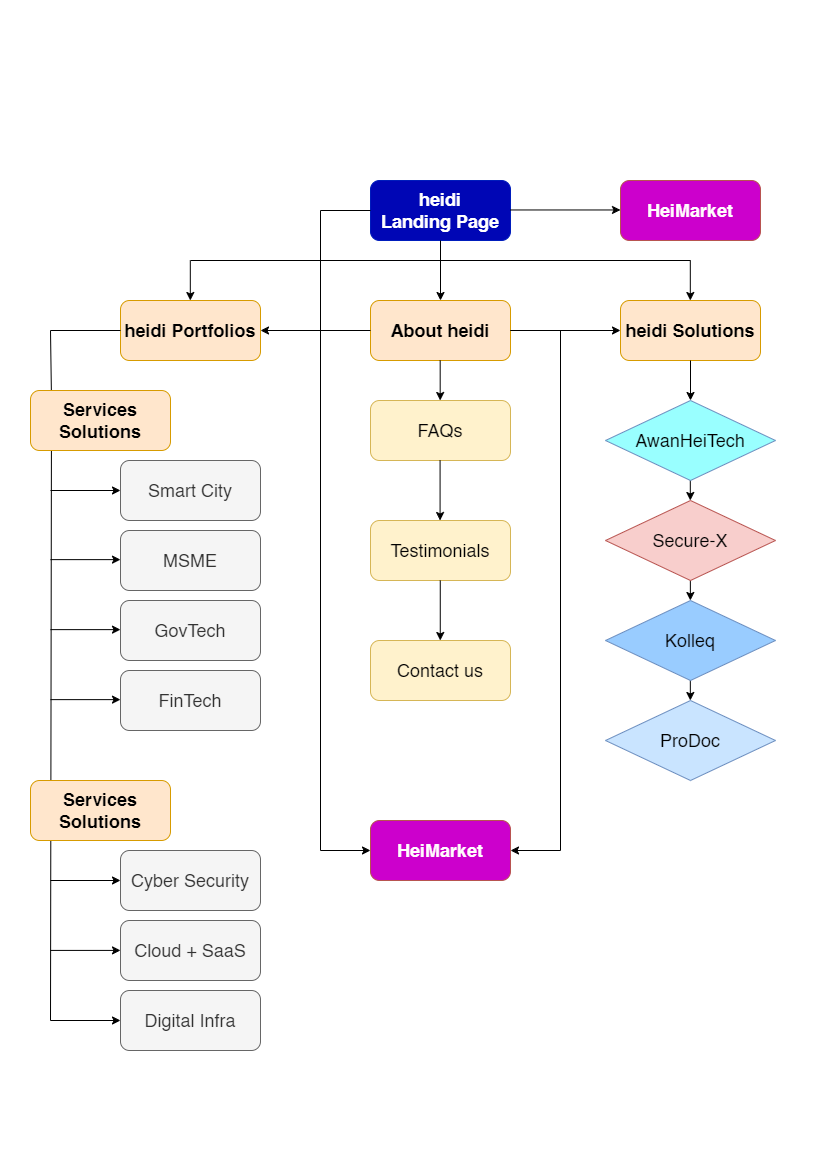
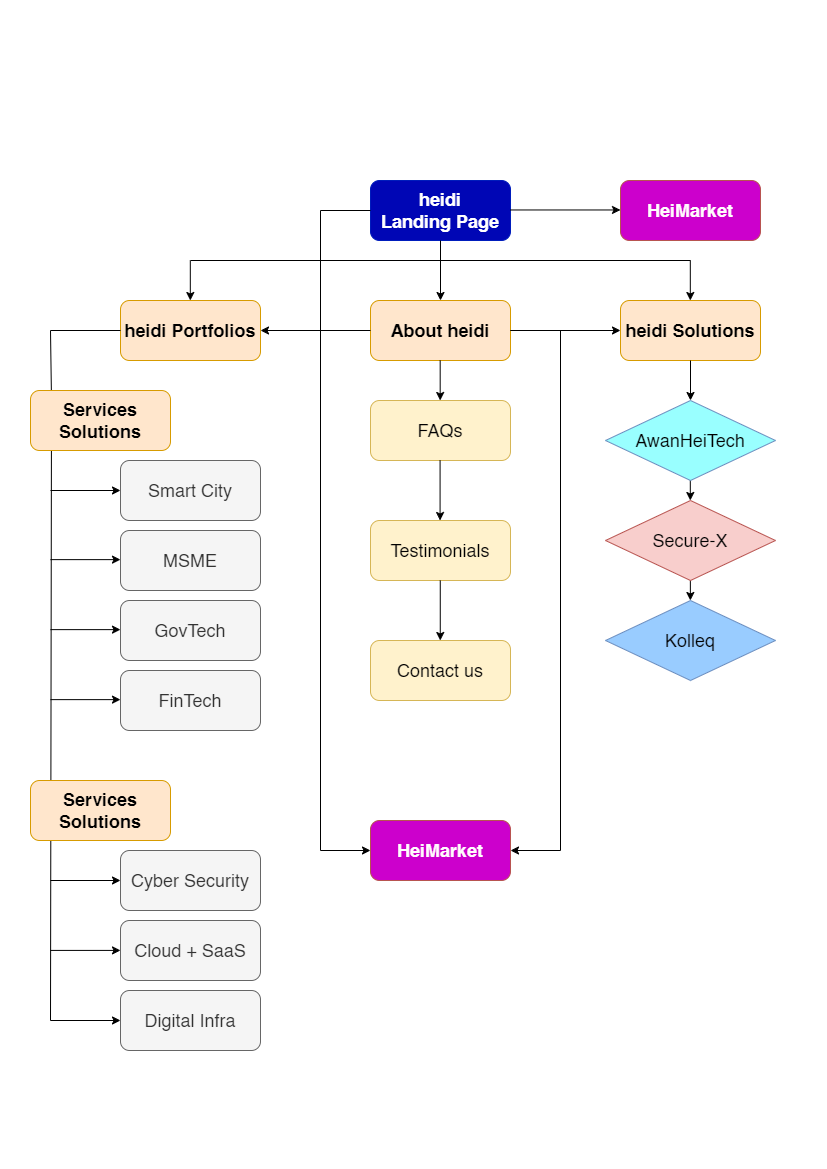
update

Changed region(s): [[0.7255, 0.5851, 0.9371, 0.6775]]

diff --git a/index.html b/index.html
@@ -332,17 +332,6 @@
                                             <p style="text-align: justify;">Secure-X is a cybersecurity services provider offering a comprehensive approach to security. </p>
                                         </div>
                                     </div>
-                                    <div class="item animate" data-animate="fadeInUp">
-                                        <div class="service-box">
-                                            <span class="service-icon" style="width: 175px;">
-                                                <img src="images/prodoc logo.png" alt="securex-x logo" class="service-img">
-                                            </span>
-                                            <h3>ProDoc</h3>
-                                            <p style="text-align: justify;">ProDoc is a comprehensive document management solution that allows you to digitize, store, and retrieve your documents with ease.
-                                                <br><br> It offers increased efficiency, cost savings, and enhanced security for your business. 
-                                            </p>
-                                        </div>
-                                    </div>
                                 </div>
                             </div>
                         </div>
@@ -586,8 +575,7 @@
             <ul class="social-icons">
                 <!-- Existing icons -->
                 <li><a href="https://www.facebook.com/HeiTechPaduBerhad" target="blank" title="FaceBook"><i class="fa fa-facebook"></i></a></li>
-                <li><a href="https://www.heitech.com.my" target="blank" title="HeiTech Padu"><i class="fa fa-globe"></i></a></li>
-                <li><a href="https://www.linkedin.com/company/heitechpaduberhad" target="blank" title="LinkedIn"><i class="fa fa-linkedin"></i></a></li>
+                <li><a href="https://www.heitech.com.my" target="blank" title="Instagram"><i class="fa fa-instagram"></i></a></li>
                 <li><a href="#top" target="blank" title="WhatsApp"><i class="fa fa-whatsapp"></i></a></li>
                 <li><a href="#slide01" title="go to top"><i class="fa fa-arrow-up"></i></a></li>
         
